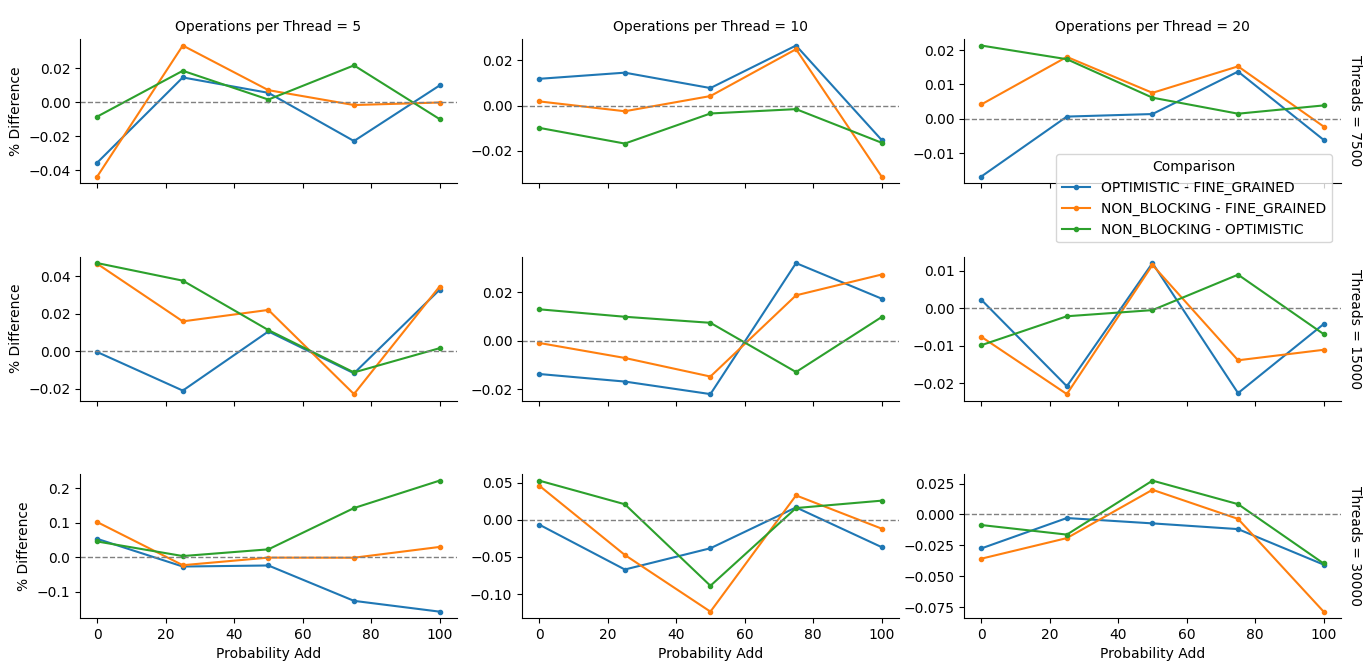
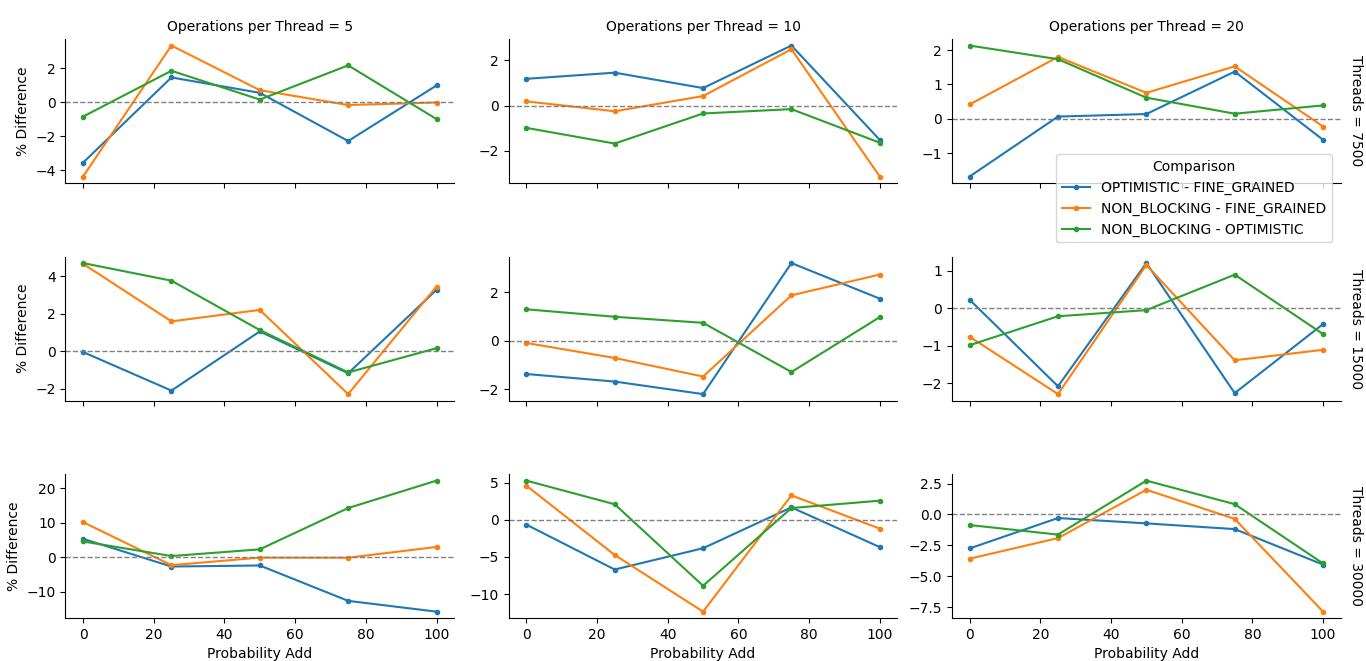
fix: startTime in Scenario and difference graph in tp1.py

diff --git a/src/main/java/tp/listas/NonBlockingList.java b/src/main/java/tp/listas/NonBlockingList.java
@@ -17,20 +17,12 @@ public class NonBlockingList<T> implements SynchronizedList<T>{
             return false;
         }
         while (true) {
-            LocklessNode<T> nodes[] = oldFind(data);
+            LocklessNode<T> nodes[] = find(data);
             LocklessNode<T> pred = nodes[0];
             LocklessNode<T> curr = nodes[1];
             LocklessNode<T> succ = nodes[2];
             if (curr != null)
                 return false;
-            if (pred == null){
-                System.out.println("PRED NULL EN ADICIÓN");
-                return false;
-            }
-            if (succ == null){
-                System.out.println("SUCC NULL EN ADICIÓN");
-                return false;
-            }
             LocklessNode<T> node = new LocklessNode<T>(data);
             node.next = new AtomicMarkableReference<LocklessNode<T>>(succ,false);
             if (pred.next.compareAndSet(succ, node, false, false))
@@ -43,26 +35,13 @@ public class NonBlockingList<T> implements SynchronizedList<T>{
             return false;
         }
         while (true) {
-            LocklessNode<T> nodes[] = oldFind(data);
+            LocklessNode<T> nodes[] = find(data);
             LocklessNode<T> pred = nodes[0];
             LocklessNode<T> curr = nodes[1];
             LocklessNode<T> succ = nodes[2];
             if (curr == null){
-                //System.out.println("NO SE ELIMINA");
                 return false;
             }
-            if (pred == null){
-                System.out.println("PRED NULL EN ELIMINACIÓN");
-                return false;
-            }
-            if (succ == null){
-                System.out.println("SUCC NULL EN ELIMINACIÓN");
-                return false;
-            }
-            //else {
-                //System.out.print("SE ENCONTRO Y ESTA POR BORRARSE: ");
-                //System.out.println(curr.data);
-            //}
             if (!curr.next.attemptMark(succ,true))
                 continue;
             pred.next.compareAndSet(curr, succ, false, false);
@@ -70,36 +49,8 @@ public class NonBlockingList<T> implements SynchronizedList<T>{
         }
     }
 
-    private LocklessNode<T>[] find(T data){
-        LocklessNode<T> pred = null, curr = null, succ = null;
-        boolean[] marked = {false};
-        boolean snip;
-        int key = data.hashCode();
-        retry: while (true) {
-            pred = head;
-            curr = pred.next.getReference();
-            while (true) {
-                succ = curr.next.get(marked);
-                while (marked[0]) {
-                    snip = pred.next.compareAndSet(curr, succ, false, false);
-                    if (!snip) continue retry;
-                    curr = succ;
-                    succ = curr.next.get(marked);
-                }
-                if (curr.key >= key){
-                    LocklessNode<T> nodes[] = new LocklessNode[3];
-                    nodes[0] = pred; nodes[1] = null; nodes[2] = curr;
-                    return nodes;
-                }
-                pred = curr;
-                curr = succ;
-            }
-        }
-    }
-
-    private LocklessNode<T>[] oldFind(T data) {
+    private LocklessNode<T>[] find(T data) {
         LocklessNode<T> nodes[] = new LocklessNode[3];
-        //boolean[] pmark = new boolean[1];
         boolean[] cmark = new boolean[1];
         int key = data.hashCode();
         tryAgain: while (true) {
@@ -107,18 +58,14 @@ public class NonBlockingList<T> implements SynchronizedList<T>{
             nodes[1] = nodes[0].next.getReference();
             while (true) {
                 if (nodes[1] == tail){
-                    //System.out.println("LLEGO AL FINAL");
                     nodes[1] = null;
                     nodes[2] = tail;
                     return nodes;
                 }
                 nodes[2] = nodes[1].next.get(cmark);
                 int ckey = nodes[1].key;
-                //if (! (nodes[0].next.compareAndSet(nodes[1], nodes[2], false, false)))
-                //    continue tryAgain;
                 if (!cmark[0]) {
                     if (nodes[1].data == data){
-                        //System.out.println("YA EXISTE");
                         return nodes;
                     }
                     else
@@ -141,11 +88,6 @@ public class NonBlockingList<T> implements SynchronizedList<T>{
                 }
             }
         }
-    }
-
-    public boolean contains(T data){
-        LocklessNode<T> nodes[]= find(data);
-        return (nodes[1] != null);
     }
 
     public void print() {

diff --git a/src/main/java/tp/listas/scenarios/Scenario.java b/src/main/java/tp/listas/scenarios/Scenario.java
@@ -32,13 +32,14 @@ public class Scenario {
             // TODO: handle exception
             e.printStackTrace();
         }
-        long startTime = System.nanoTime();
 
         for (int i = 0; i < threads; i++) {
             OperationThread operationThread = new OperationThread((int) (Math.random() * 100) < probabilityAdd ? ADD : REMOVE, operationsPerThread, myList, start, end);
             Thread thread = new Thread(operationThread);
             thread.start();
         }
+
+        long startTime = System.nanoTime();
         start.release(threads);
         end.acquireUninterruptibly(threads);
         long endingTime = System.nanoTime();

diff --git a/tp1.py b/tp1.py
@@ -49,7 +49,7 @@ test_cases = df["Test"].unique()
 diff_list = []
 for test1, test2 in itertools.combinations(test_cases, 2):
     df_temp = df_pivot.copy()
-    df_temp["Difference"] = (df_temp[test2] - df_temp[test1]) / df_temp[test1]
+    df_temp["Difference"] = 100 * (df_temp[test2] - df_temp[test1]) / df_temp[test1]
     df_temp["Comparison"] = f"{test2} - {test1}"  # Label for the difference
     diff_list.append(df_temp)
 

diff --git a/src/main/java/tp/listas/SynchronizedList.java b/src/main/java/tp/listas/SynchronizedList.java
@@ -7,5 +7,5 @@ public interface SynchronizedList<T> {
 
     public boolean remove(T data);
 
-
+    public void print();
 }
